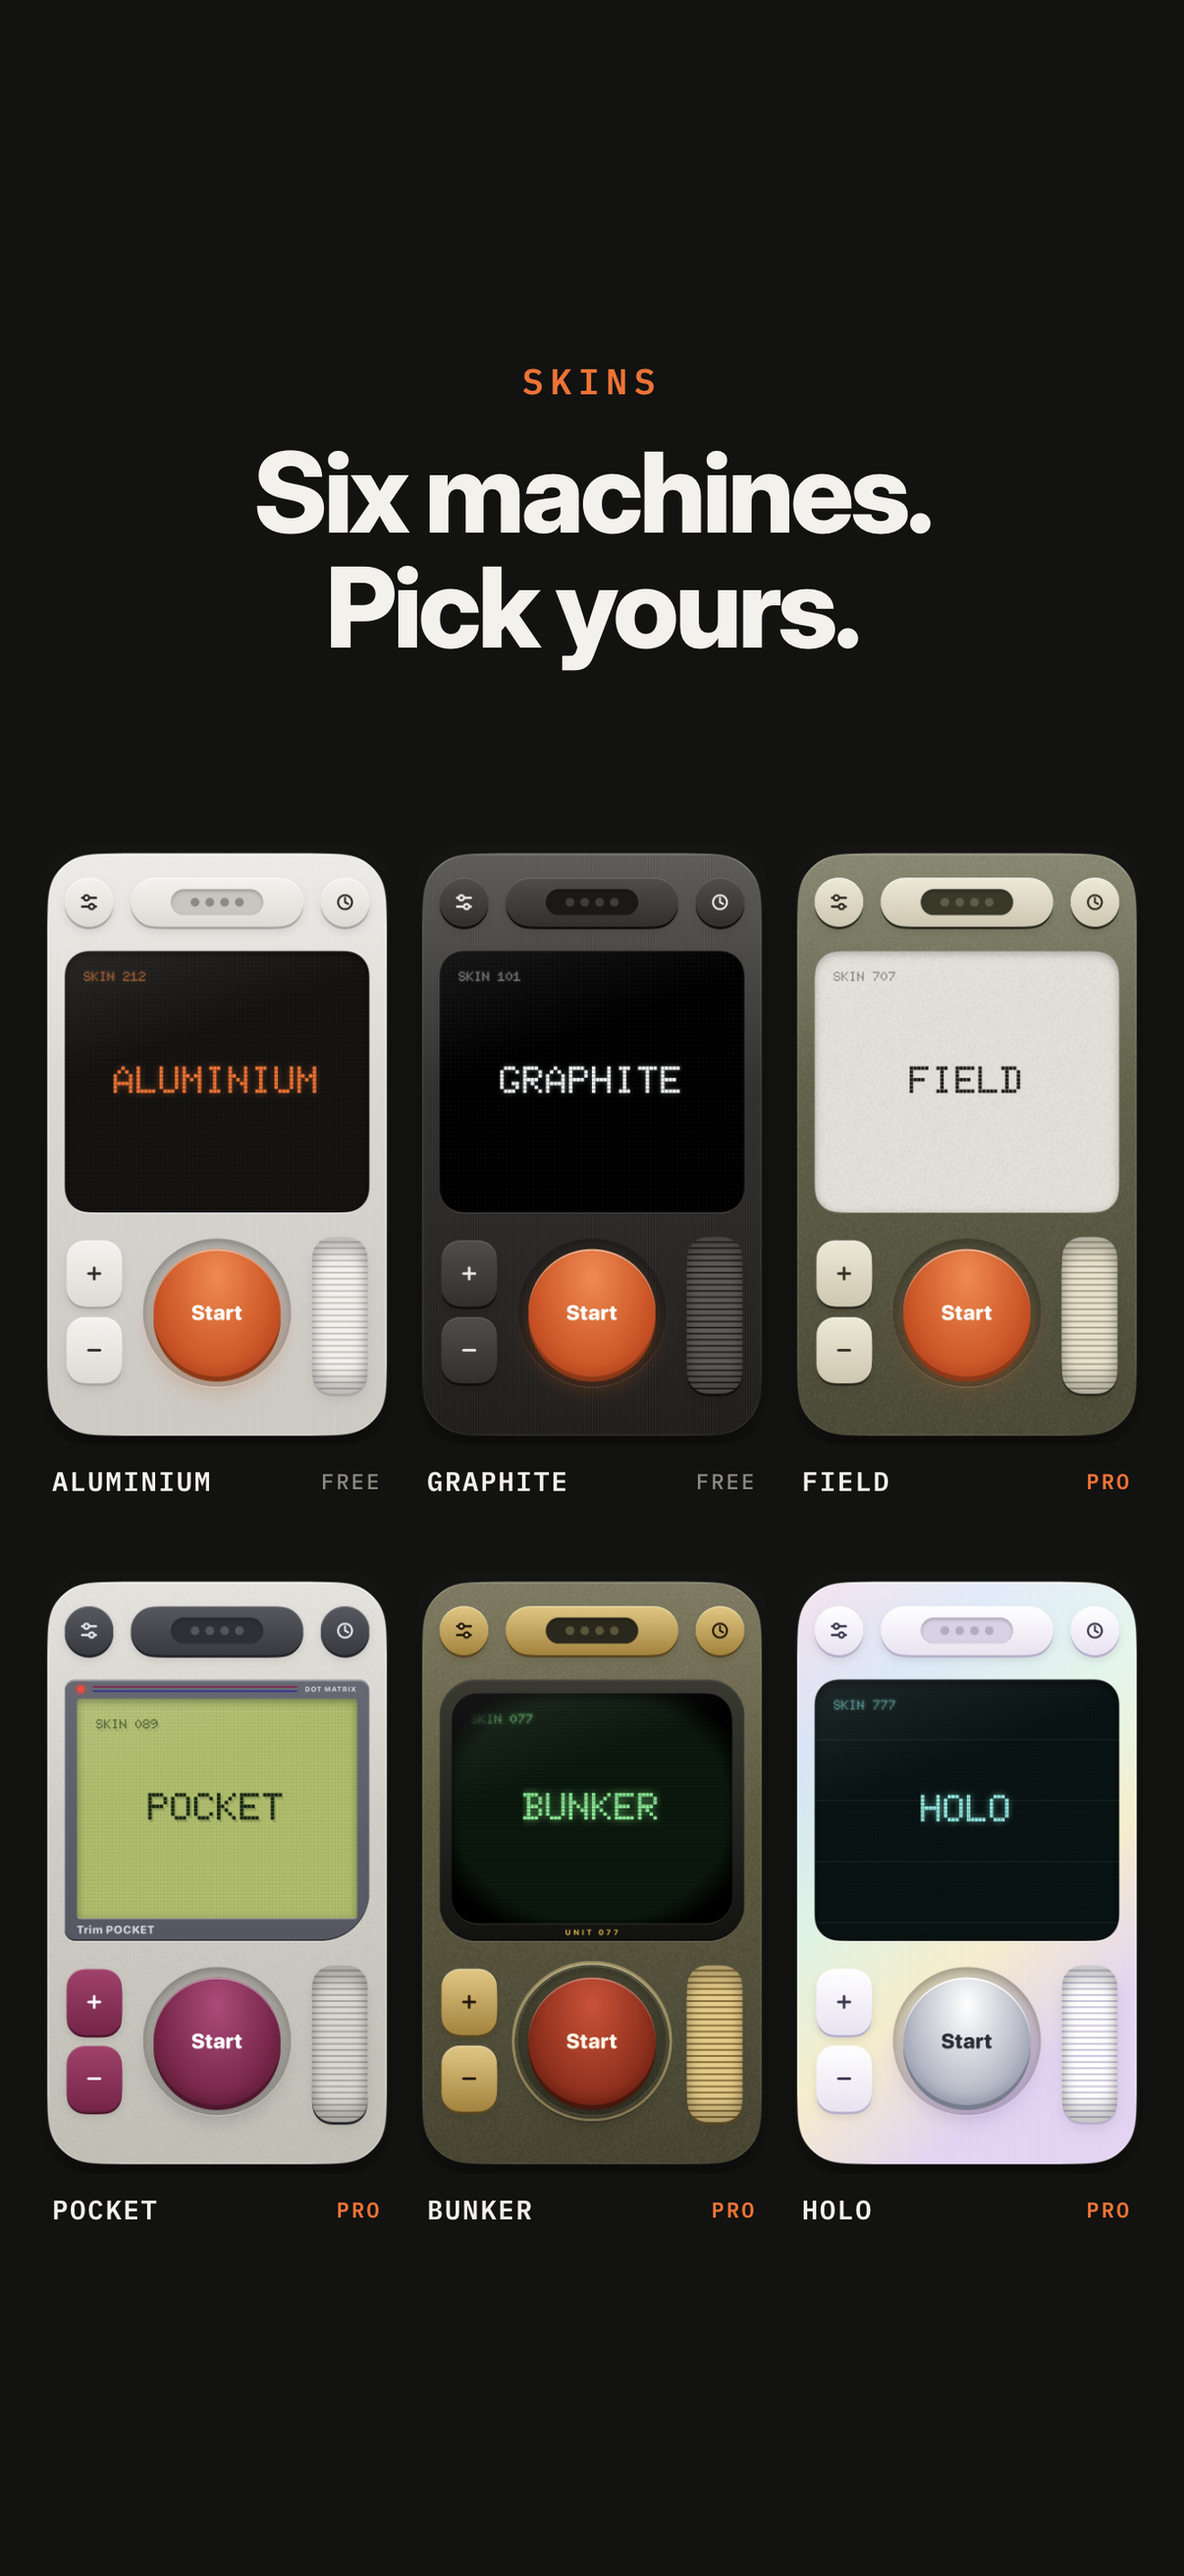
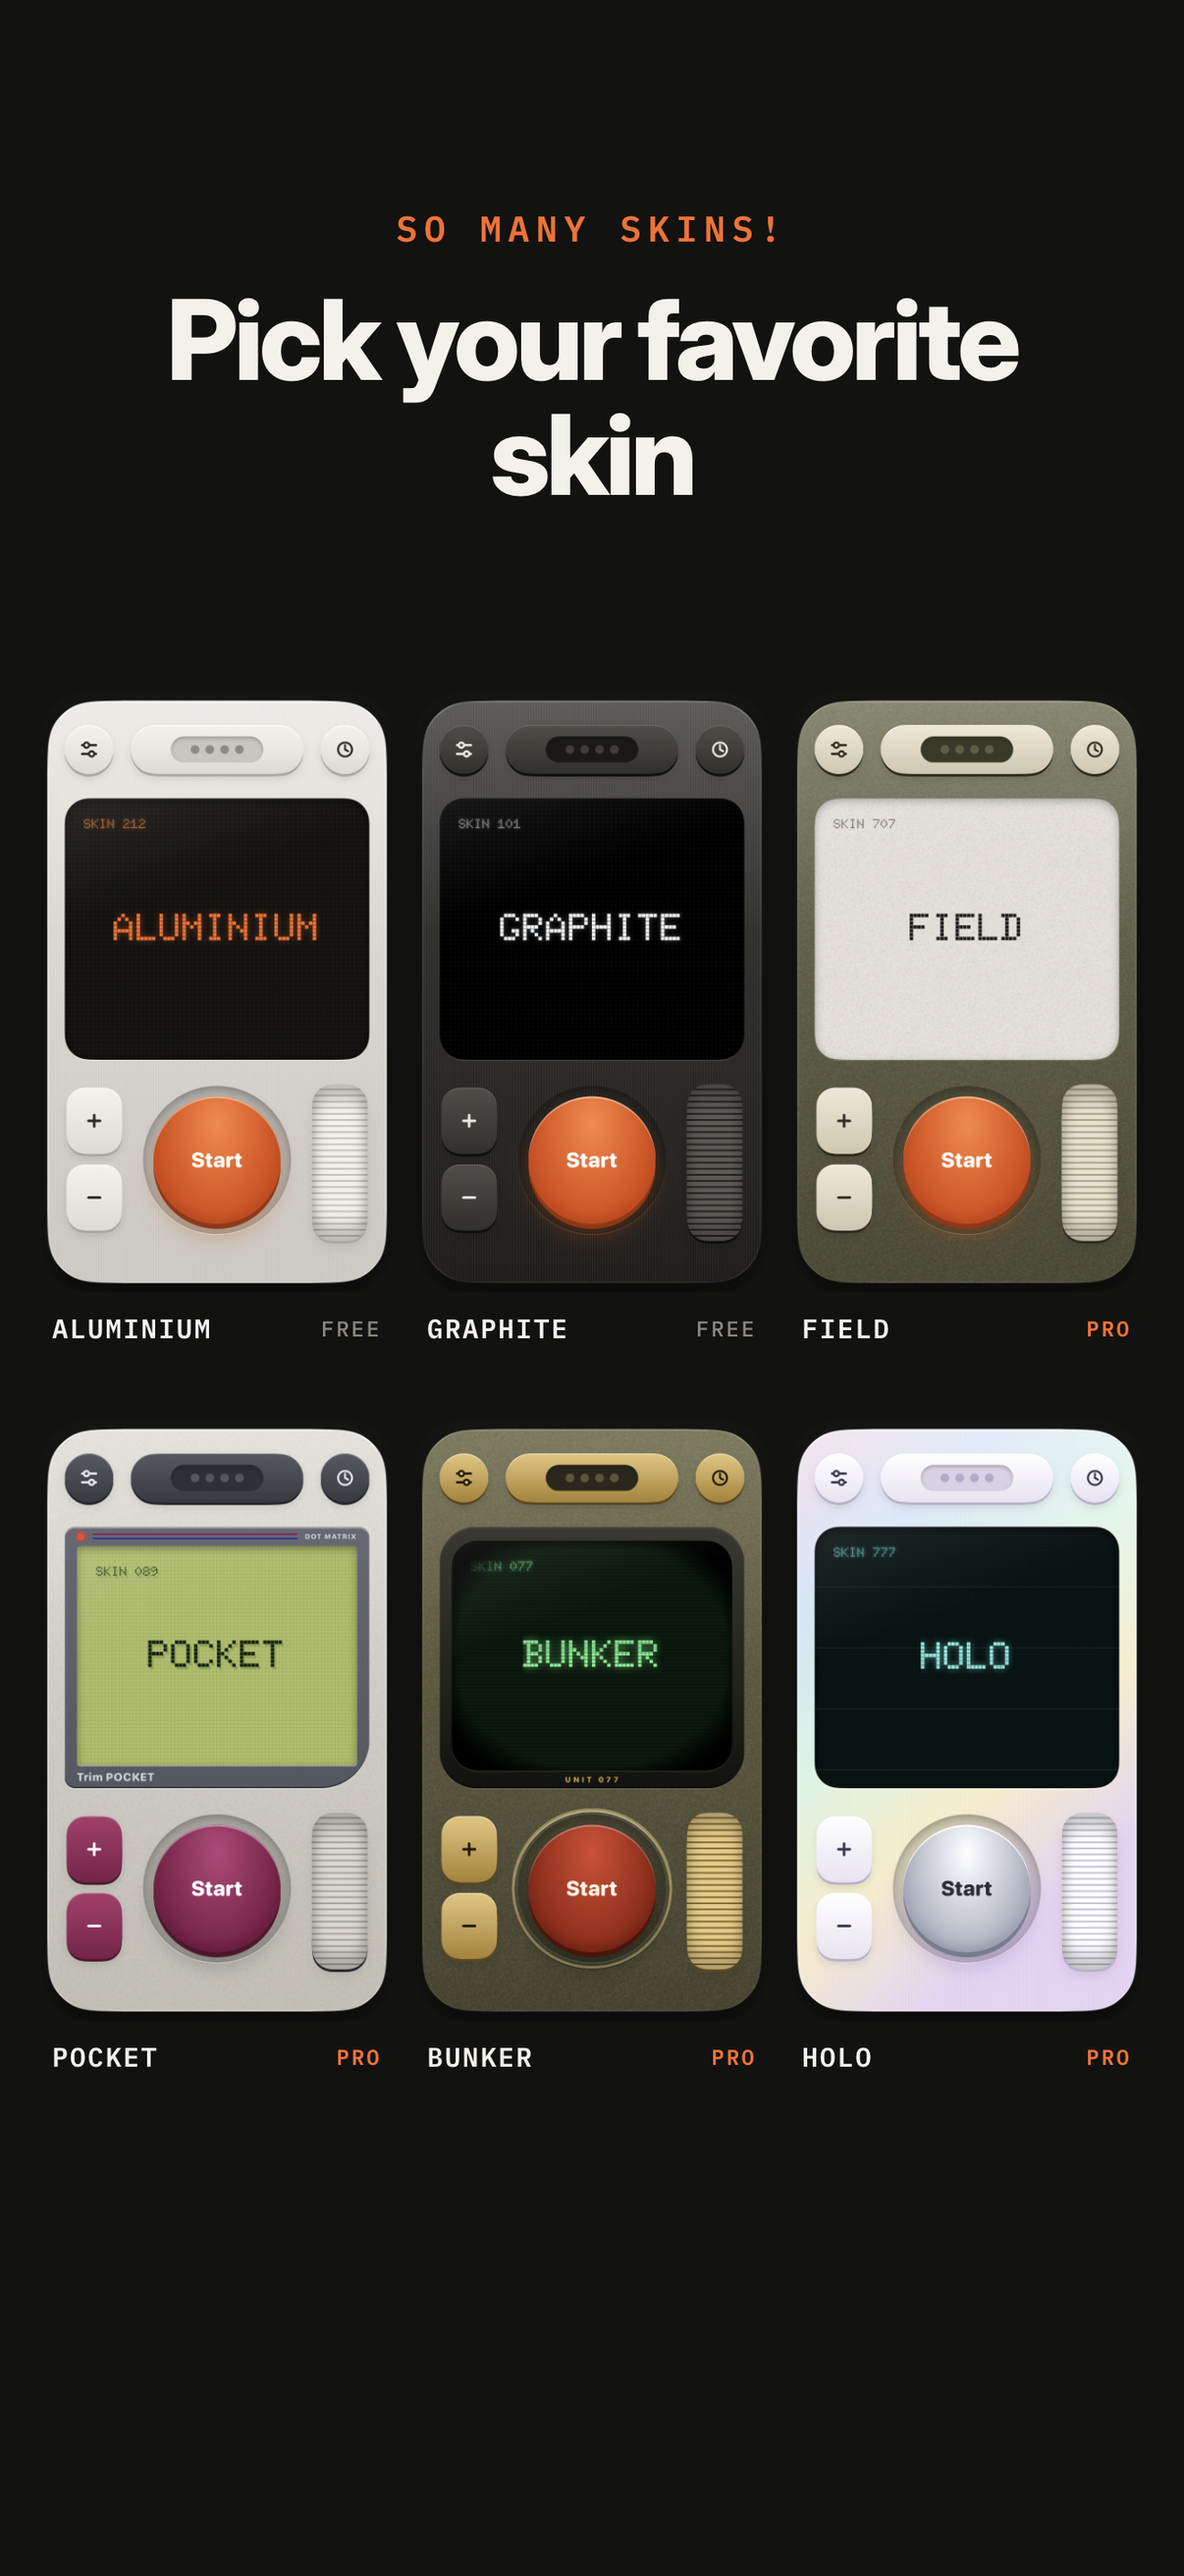
Store screenshots and search asset with Marvin's rewritten captions (resubmitted 10 Oct)

diff --git a/design/app-store/README.md b/design/app-store/README.md
@@ -4,15 +4,17 @@ Made on 10 October 2026 in the Paper file "Trim — App Store", from real screen
 
 Direction: "The machine". Graphite ground (`#121211`), one Inter 800 claim per frame with an orange IBM Plex Mono kicker, and a real screen running large off the bottom edge. Every frame shows the app in use (guideline 2.3.3), with no prices (2.3.7), and the Pro skins are marked PRO.
 
-| File | Caption |
+| File | Kicker / caption (Marvin's copy, 10 Oct) |
 |---|---|
-| `screenshots/*/01-hero.png` | A gym log you can hold. (Home) |
-| `02-log.png` | Turn. Press. Logged. |
-| `03-rest.png` | Rest on the display. |
-| `04-records.png` | Records print. (the receipt) |
-| `05-skins.png` | Six machines. Pick yours. |
-| `06-progress.png` | Every lift, going up. |
-| `07-history.png` | Every week, on paper. |
+| `screenshots/*/01-hero.png` | The not-boring workout ~~app~~ device |
+| `02-log.png` | Clicky wheels and buttons |
+| `03-rest.png` | No distractions, no fluff |
+| `04-records.png` | Share PRs with your friends |
+| `05-skins.png` | Pick your favorite skin |
+| `06-progress.png` | We have analytics, too / Track your progress |
+| `07-history.png` | Nothing gets lost / A full history of your workouts |
+
+The search asset reads "The analog workout app".
 
 - `screenshots/6.9/`: 1320×2868 (iPhone with Dynamic Island, large). `screenshots/6.3/`: 1206×2622 (medium). RGB PNG, no alpha.
 - `creative/header-3840x1646.png`: product page header (21:9), the six machines. iOS 27 creative assets, uploaded in the Asset Library.
